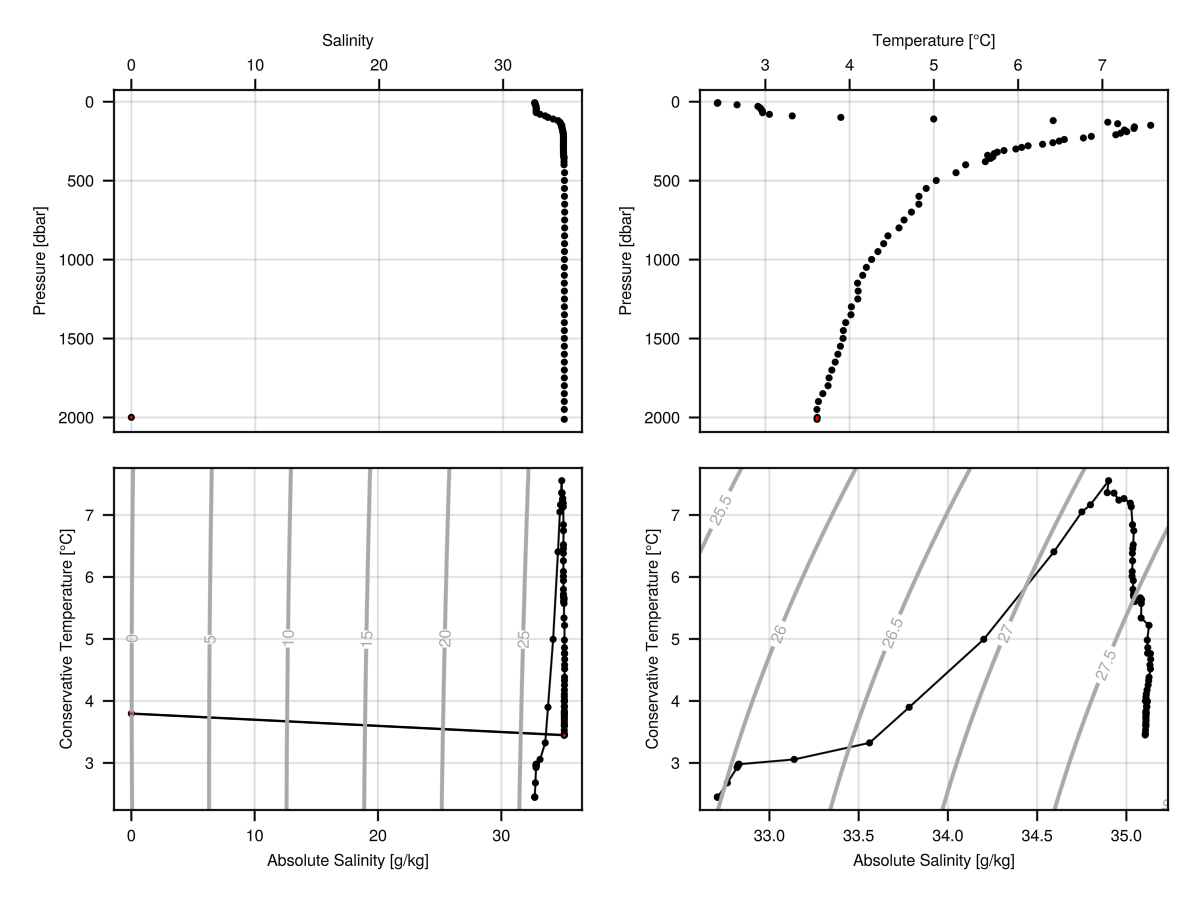
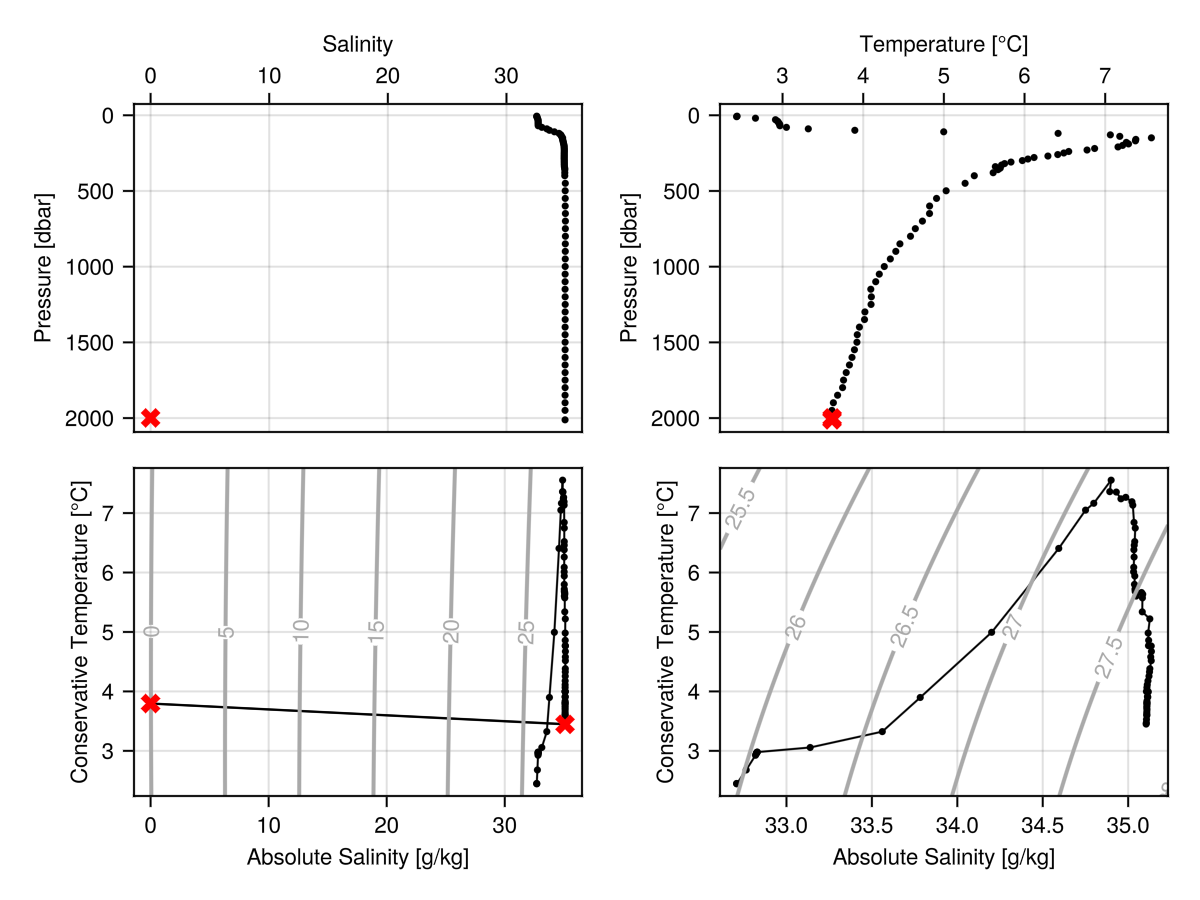
improve argo qc example clarity

diff --git a/docs/src/examples.md b/docs/src/examples.md
@@ -116,27 +116,27 @@ middle row showing just the cleaned-up profiles.
 using OceanAnalysis
 using GLMakie # or CairoMakie
 f = joinpath(pkgdir(OceanAnalysis), "data", "D4901076_139.nc")
-argo = read_argo(f);
-ctd = as_ctd(argo);
-ctd_clean = handle_qc(ctd);
+ctd = f |> read_argo |> as_ctd
 summarize(ctd)
+ctd_clean = handle_qc(ctd);
 summarize(ctd_clean)
 
 fig = Figure() # will fill with 4 panels
+fs = 11 # larger font than default
 
-plot_profile!(fig[1, 1], ctd; which="salinity")
+plot_profile!(fig[1, 1], ctd; which="salinity", fontsize=fs)
 badS = ctd["salinity_qc"] .!= '1';
-scatter!(ctd["salinity"][badS], ctd["pressure"][badS], color=:red, markersize=2)
+scatter!(ctd["salinity"][badS], ctd["pressure"][badS], color=:red, markersize=14, marker=:xcross)
 
-plot_profile!(fig[1, 2], ctd; which="temperature")
+plot_profile!(fig[1, 2], ctd; which="temperature", fontsize=fs)
 badT = ctd["temperature_qc"] .!= '1';
-scatter!(ctd["temperature"][badT], ctd["pressure"][badT], color=:red, markersize=2)
+scatter!(ctd["temperature"][badT], ctd["pressure"][badT], color=:red, markersize=14, marker=:xcross)
 
-plot_TS!(fig[2, 1], ctd)
+plot_TS!(fig[2, 1], ctd, fontsize=fs)
 bad = badS .| badT;
-scatter!(ctd["SA"][bad], ctd["CT"][bad], color=:red, markersize=2)
+scatter!(ctd["SA"][bad], ctd["CT"][bad], color=:red, markersize=14, marker=:xcross)
 
-plot_TS!(fig[2, 2], ctd_clean)
+plot_TS!(fig[2, 2], ctd_clean, fontsize=fs)
 
 save("argo_qc.png", fig, px_per_unit=2)
 ```
